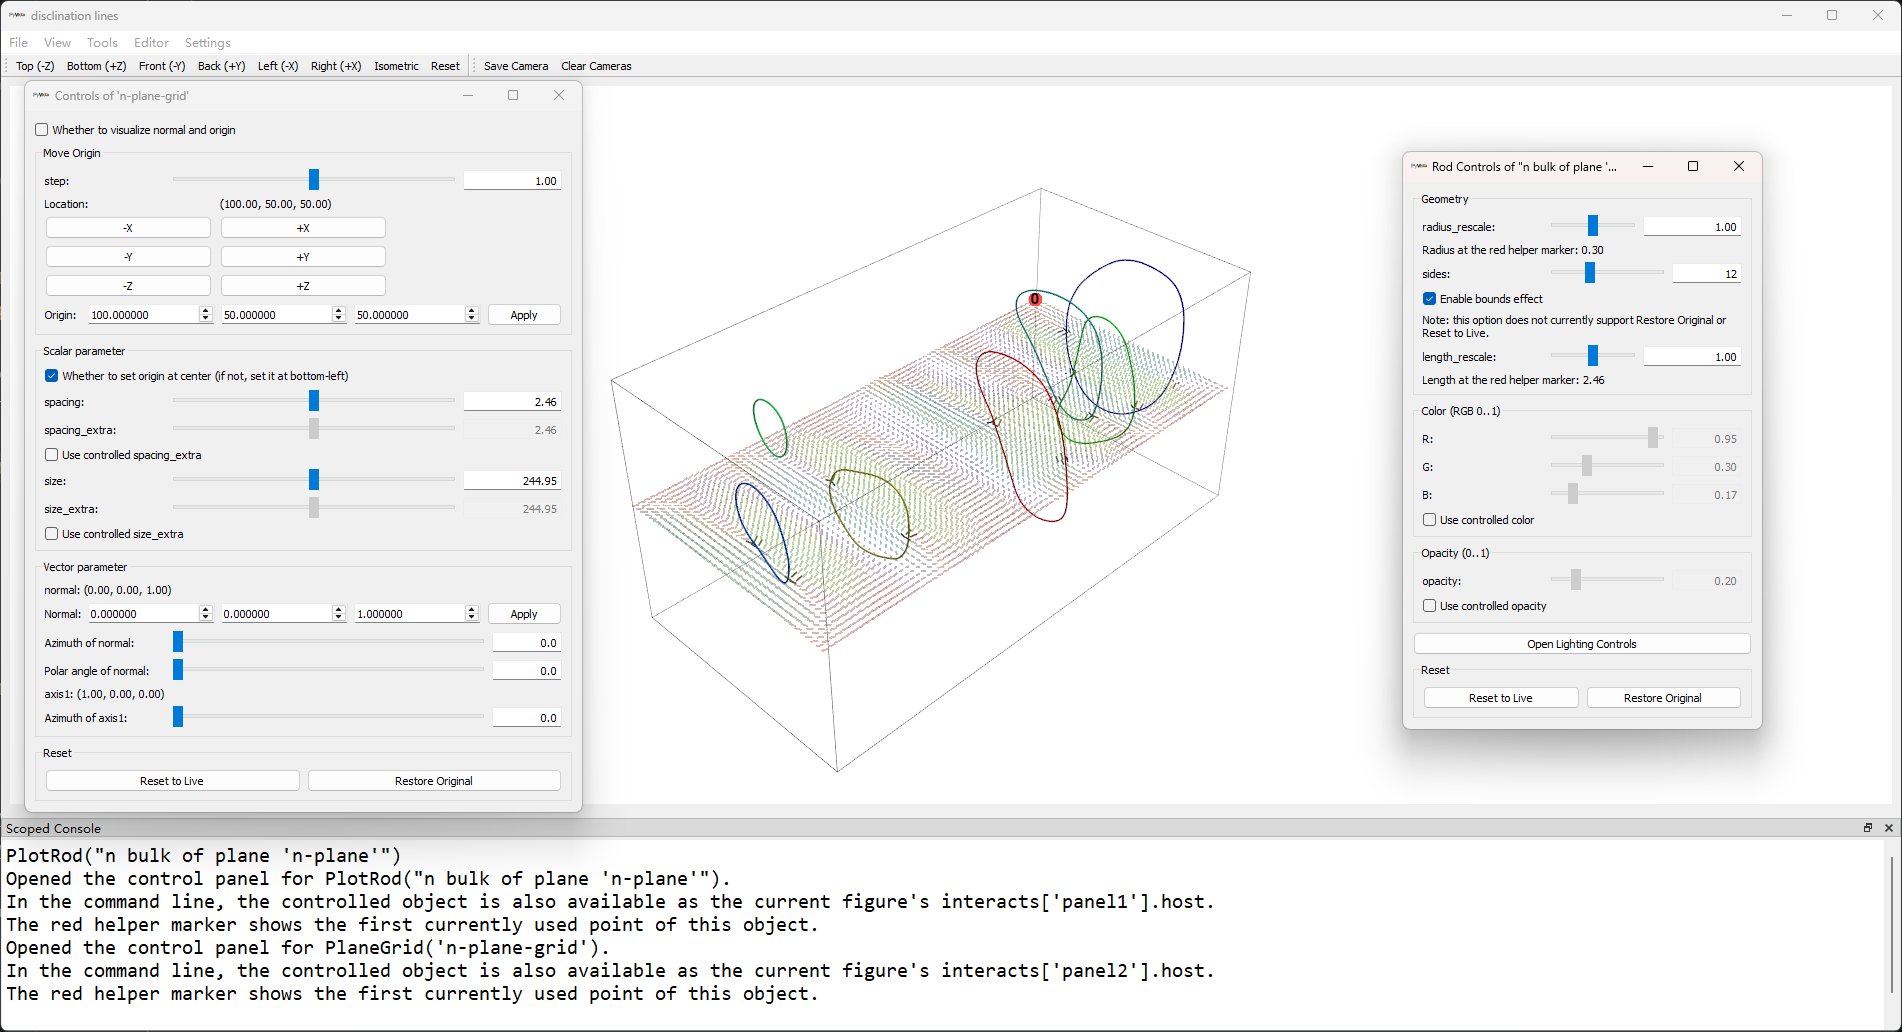
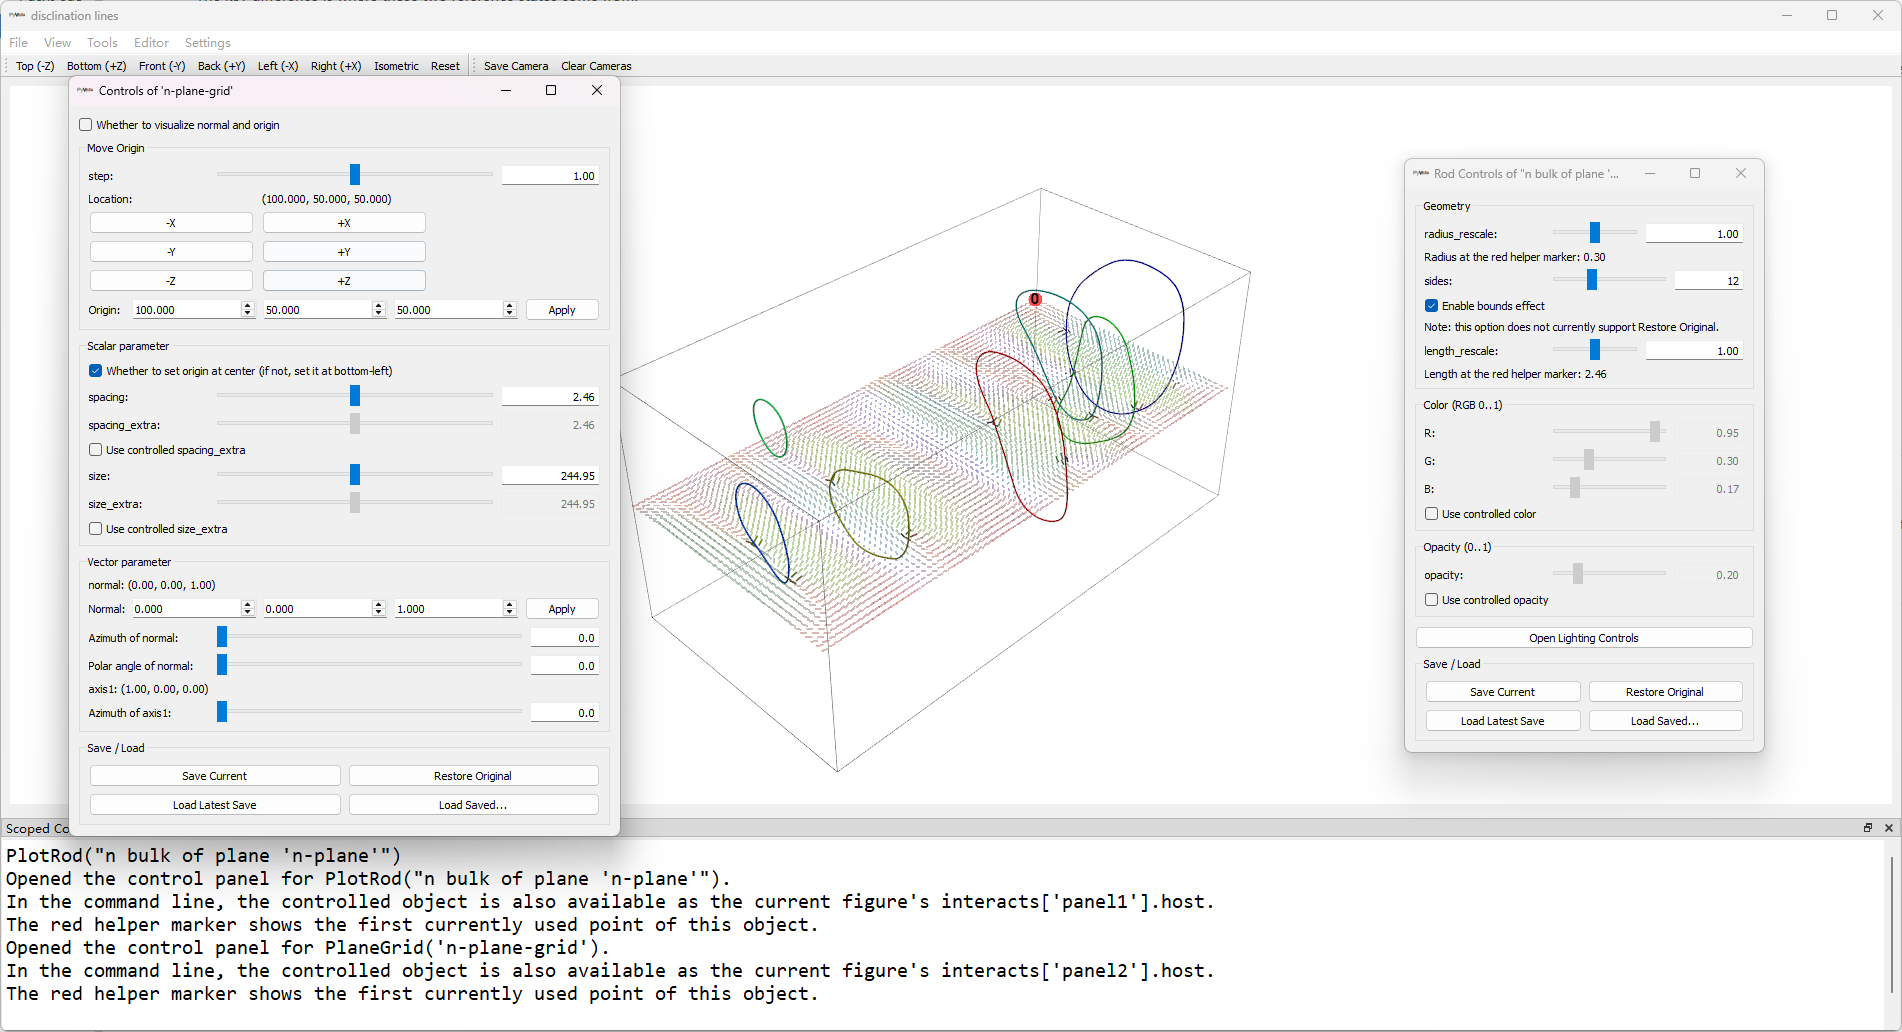
Refine PlaneGrid controls and tutorial interactions

diff --git a/src/nematics3d/classes/visual/qt/panel_base.py b/src/nematics3d/classes/visual/qt/panel_base.py
@@ -655,7 +655,7 @@ class PanelBase(QtWidgets.QWidget):
         # Save / Load Actions group
         # ----------------------------
         group_reset = QtWidgets.QGroupBox("Save / Load", self)
-        hl_reset = QtWidgets.QHBoxLayout(group_reset)
+        gl_reset = QtWidgets.QGridLayout(group_reset)
         self.layout.addWidget(group_reset)
 
         self.btn_save_current = QtWidgets.QPushButton("Save Current", group_reset)
@@ -663,26 +663,26 @@ class PanelBase(QtWidgets.QWidget):
             "Save the current parameters using a default timestamped name."
         )
         self.btn_save_current.clicked.connect(self._on_save_current_snapshot)
-        hl_reset.addWidget(self.btn_save_current)
+        gl_reset.addWidget(self.btn_save_current, 0, 0)
 
         self.btn_reset_orig = QtWidgets.QPushButton("Restore Original", group_reset)
         self.btn_reset_orig.setToolTip(
             "Restore the state captured when this control panel was opened."
         )
         self.btn_reset_orig.clicked.connect(self._on_restore_original_snapshot)
-        hl_reset.addWidget(self.btn_reset_orig)
+        gl_reset.addWidget(self.btn_reset_orig, 0, 1)
 
         self.btn_load_latest = QtWidgets.QPushButton("Load Latest Save", group_reset)
         self.btn_load_latest.setToolTip(
             "Restore the most recent snapshot created from this control panel."
         )
         self.btn_load_latest.clicked.connect(self._on_load_latest_snapshot)
-        hl_reset.addWidget(self.btn_load_latest)
+        gl_reset.addWidget(self.btn_load_latest, 1, 0)
 
         self.btn_load_choose = QtWidgets.QPushButton("Load Saved...", group_reset)
         self.btn_load_choose.setToolTip("Choose one available snapshot and restore it.")
         self.btn_load_choose.clicked.connect(self._on_choose_snapshot_to_restore)
-        hl_reset.addWidget(self.btn_load_choose)
+        gl_reset.addWidget(self.btn_load_choose, 1, 1)
 
         self.host.act_attach_sync_task(name=self.str_now, func=self._sync_func)
 

diff --git a/src/nematics3d/classes/visual/qt/interact_plane.py b/src/nematics3d/classes/visual/qt/interact_plane.py
@@ -38,7 +38,7 @@ class InteractPlane(PanelBase):
         inputs = []
         for value in np.asarray(values, dtype=float):
             box = QtWidgets.QDoubleSpinBox(panel)
-            box.setDecimals(6)
+            box.setDecimals(3)
             box.setKeyboardTracking(False)
             box.setRange(-1.0e12, 1.0e12)
             box.setValue(float(value))
@@ -225,7 +225,7 @@ class InteractPlane(PanelBase):
             step_max=100.0,
             step_tick_max=1000,
             step_fmt="{:.2f}",
-            center_fmt="{:.2f}",
+            center_fmt="{:.3f}",
             on_move=self._commit_origin,
             on_press=self._helper_begin_continuous_interaction,
             on_hold=None,
